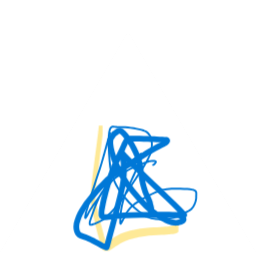
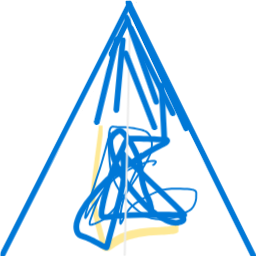
working flashlights w/ def lengths. some sprite problems

diff --git a/Assets/Scenes/GuardController.cs b/Assets/Scenes/GuardController.cs
@@ -6,7 +6,7 @@ public class GuardController : MonoBehaviour
 {
     public SpriteRenderer spriteRenderer;
     public float moveSpeed = 2f;
-    public float flashlightLength = 1f;
+    public float flashlightLength = 3f;
 
     private Vector3Int currentCell;
     private Tilemap wallTilemap;
@@ -33,9 +33,6 @@ public class GuardController : MonoBehaviour
         name = guardDef.name;
         
         SetNewTargetPosition();
-
-        // Set flashlight length
-        transform.GetChild(0).localScale = new Vector3(1, flashlightLength, 1);
     }
 
     private void Update()
@@ -43,6 +40,13 @@ public class GuardController : MonoBehaviour
         Move();
     }
 
+
+    public void setFlashlightLength(float length)
+    {
+        flashlightLength = length;
+        transform.GetChild(0).localScale = new Vector3(1, flashlightLength, 1);
+    }
+    
     private void SetNewTargetPosition()
     {
         Vector2Int targetPoint = patrolPoints[currentPatrolIndex];
@@ -88,4 +92,5 @@ public class GuardController : MonoBehaviour
         float angle = Mathf.Atan2(direction.y, direction.x) * Mathf.Rad2Deg - 90f;
         transform.rotation = Quaternion.Euler(0, 0, angle - 180);
     }
+
 }

diff --git a/Assets/Scenes/GameManager.cs b/Assets/Scenes/GameManager.cs
@@ -16,6 +16,7 @@ public class GuardDefinition
     public string name;
     public Sprite sprite;
     public float moveSpeed = 2f;
+    public float flashlightLength = 3f;
     public List<Vector2Int> patrolPoints = new List<Vector2Int>();
 }
 
@@ -52,8 +53,11 @@ public class GameManager : MonoBehaviour
 
             Vector3 spawnPosition = wallTilemap.GetCellCenterWorld(new Vector3Int(guard.patrolPoints[0].x, guard.patrolPoints[0].y, 0));
             GameObject guardObject = Instantiate(guardPrefab, spawnPosition, Quaternion.identity);
+
             GuardController guardController = guardObject.GetComponent<GuardController>();
             guardController.Initialize(wallTilemap, guard);
+            
+            guardController.setFlashlightLength(guard.flashlightLength);
         }
     }
 }
